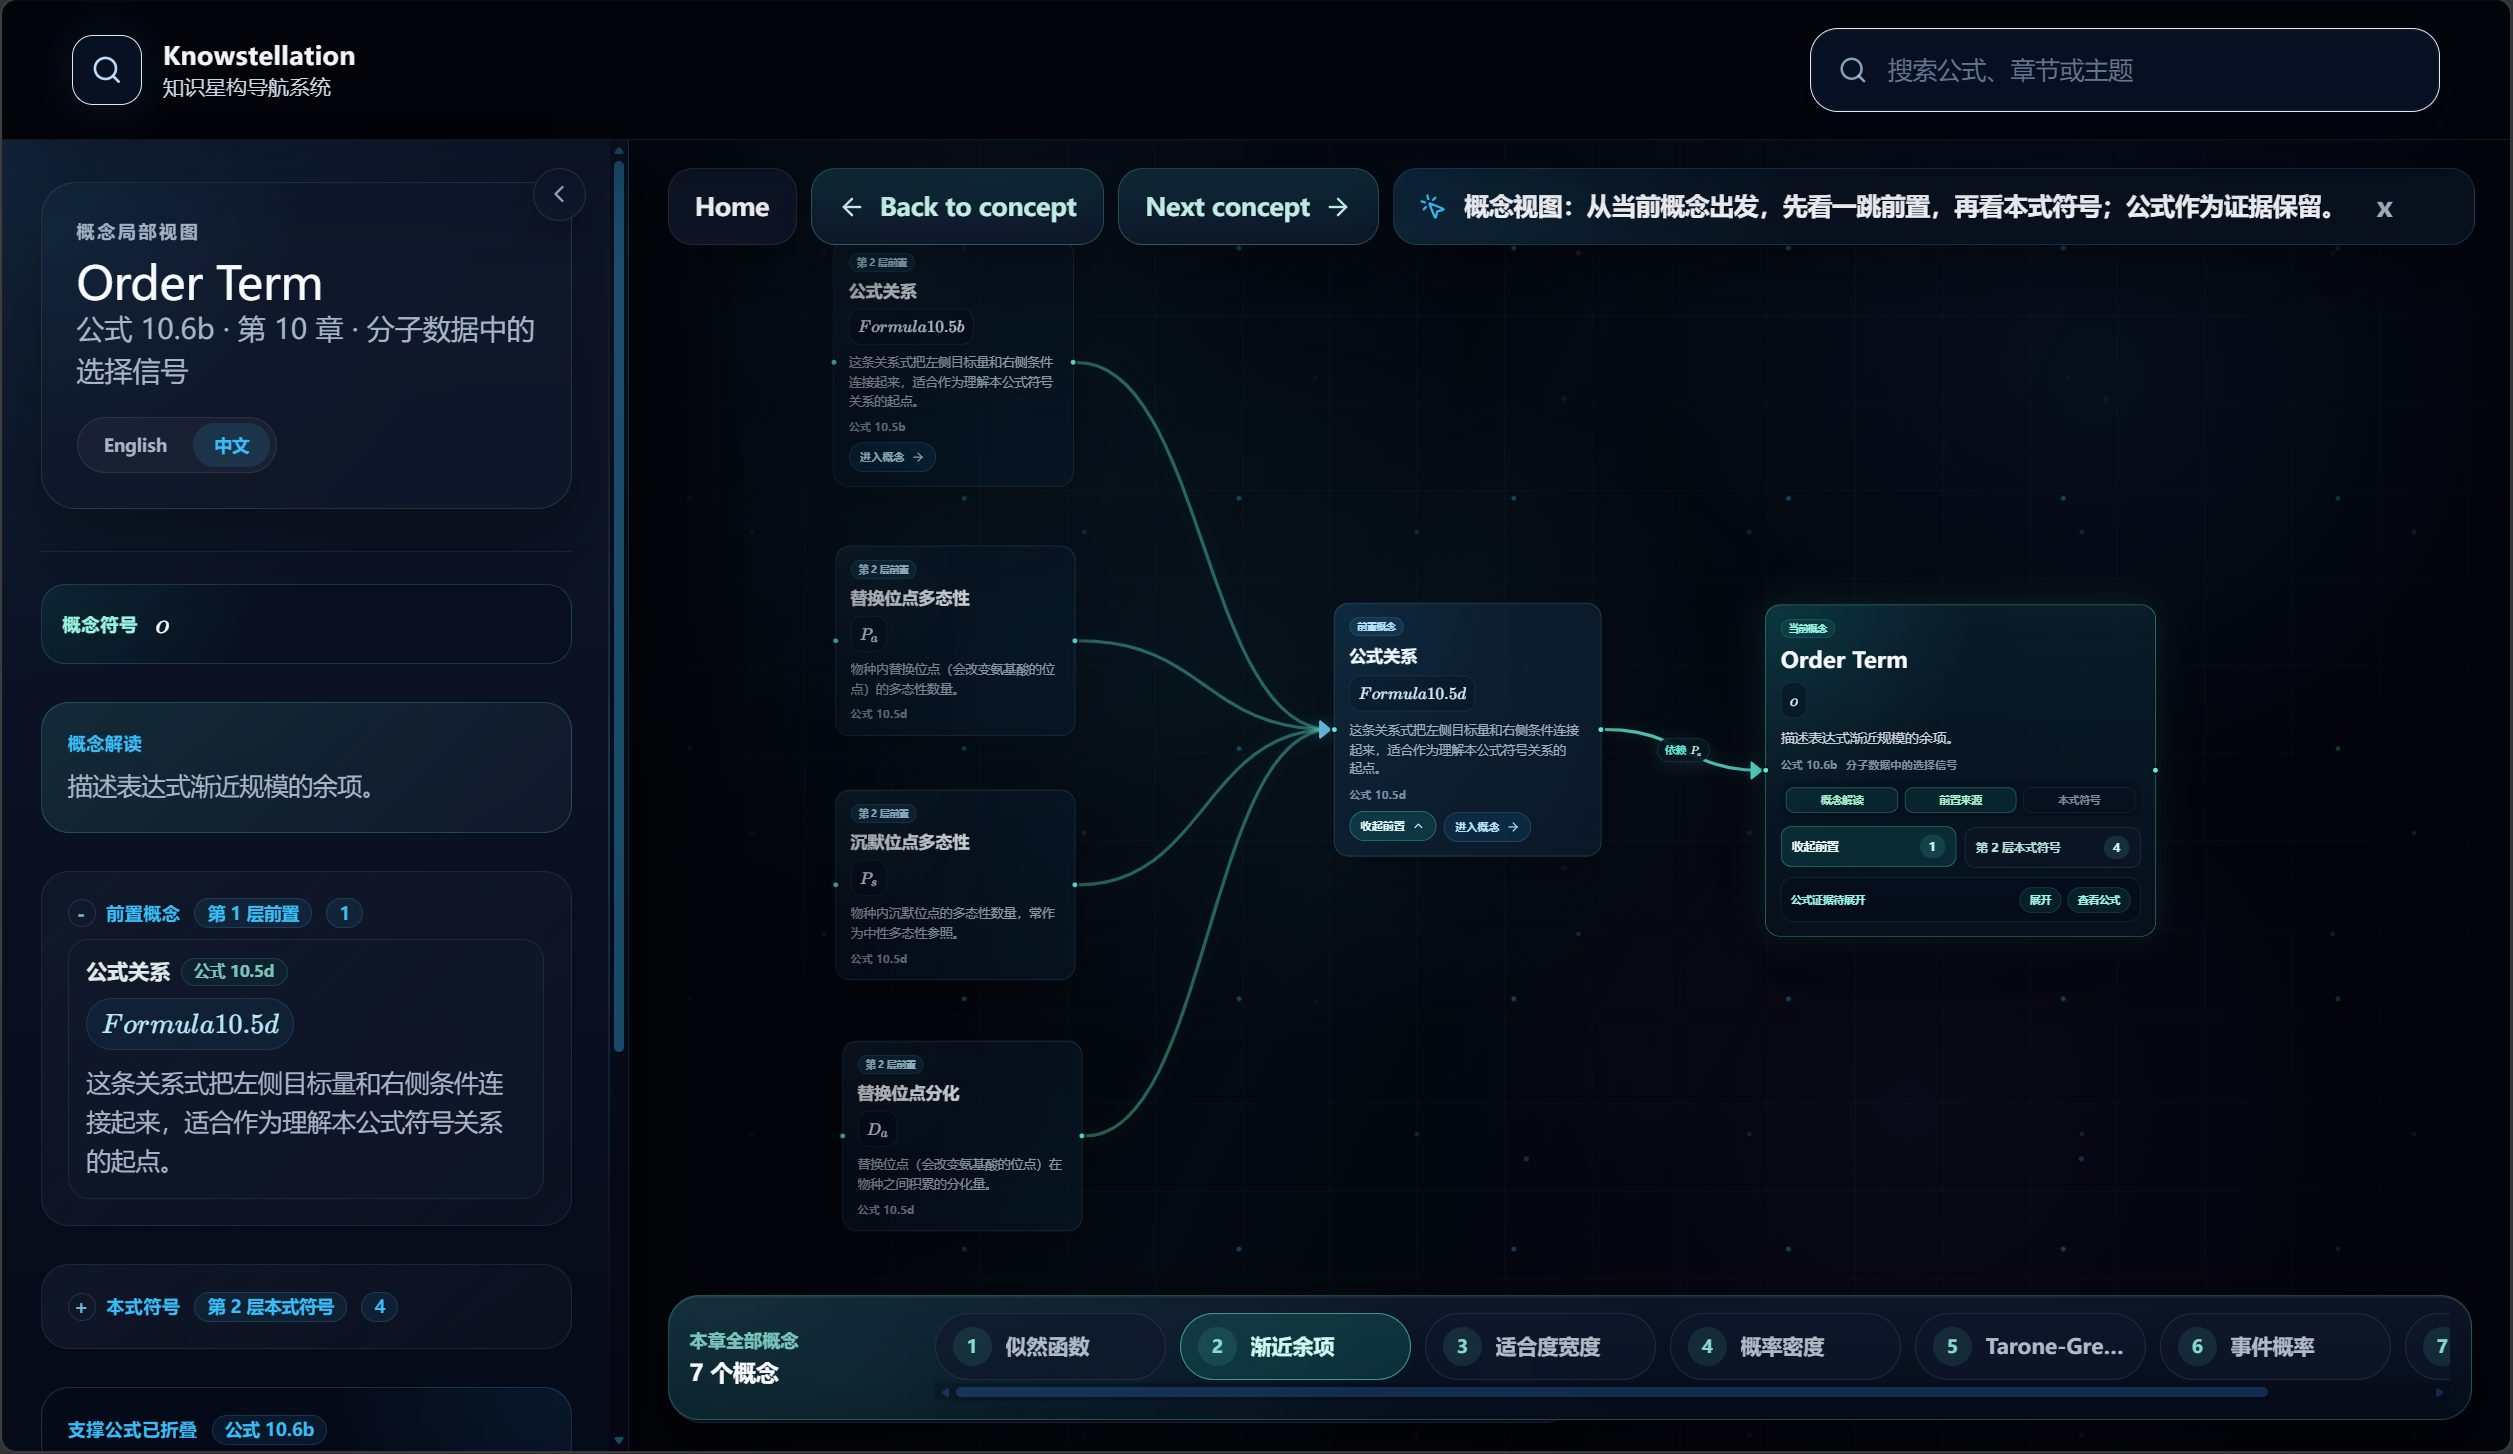
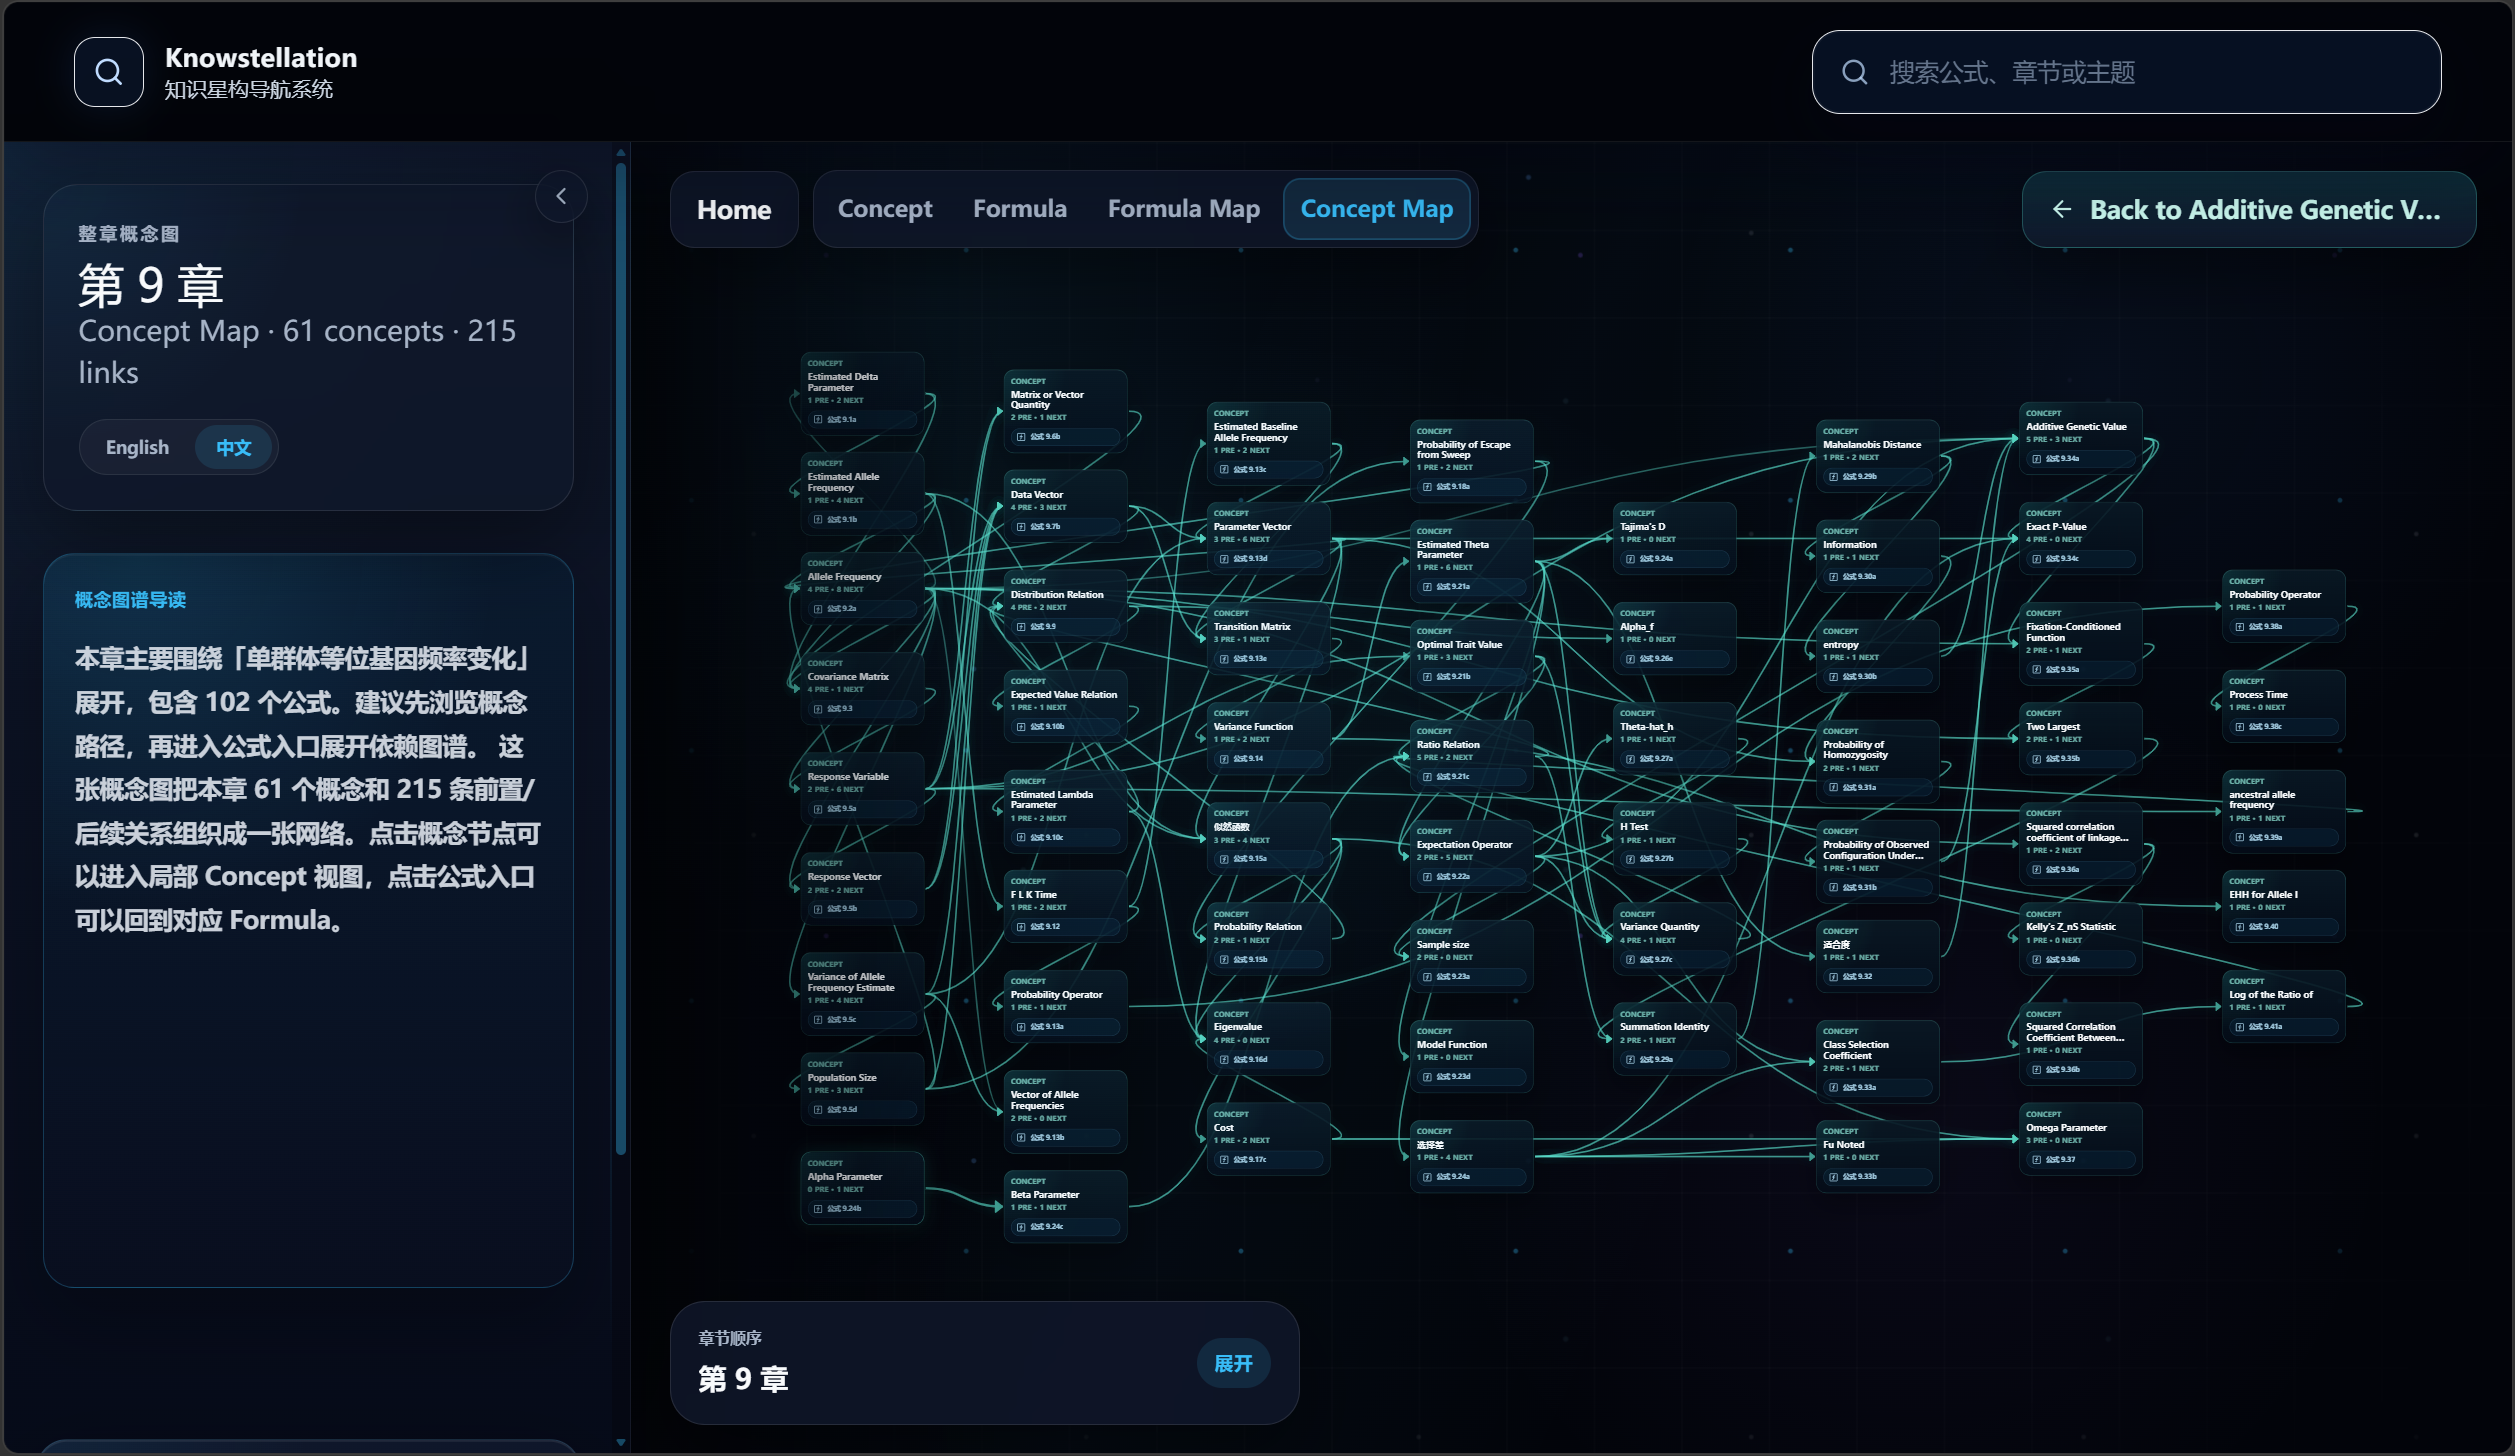
更新README

diff --git a/README.md b/README.md
@@ -48,6 +48,7 @@ The project is intentionally strict about graph quality. Exact references, exact
 - **Formula-first graph reading**: Guided mode combines step-by-step expansion with symbol callouts; Explore opens the chapter-scale graph.
 - **Chapter star map**: each chapter opens as a navigable constellation of formulas and recommended entry points.
 - **Inline symbol annotations**: hover, focus, or tap symbols and compound groups inside a rendered formula to see compact semantic labels. Runtime LaTeX scanning fills gaps when the offline symbol index misses local variables.
+- **Concept and formula maps**: chapter-scale Concept Map and Formula Map views put vocabulary structure and formula prerequisites side by side.
 - **Layered concept graph**: Concept mode starts from the concept defined by the current formula, opens prerequisite context in controlled layers, keeps formula evidence folded by default, and lets learners drag concept cards apart when arranging a dense local view.
 - **Storyline learning paths**: curated narrative routes connect formulas that share a mathematical idea.
 - **Conservative dependency builder**: keeps operator pollution, family-only matches, and fallback definitions out of the accepted graph.
@@ -71,29 +72,32 @@ Each chapter opens as its own star map. Formula nodes keep the dependency struct
   <img src="public/assets/readme/chapter.png" alt="Chapter star map with concept and formula learning entry points" width="100%">
 </p>
 
-### Concept graph reading
-
-Concept mode answers the question "what is this source passage defining?" before asking the learner to chase every dependency. It starts from the current concept, reveals one prerequisite layer by default, keeps formula evidence folded until it is requested, and keeps the local concept view focused on learning relationships instead of symbol inventory. Learners can move to the next concept, step back to the previous concept, or jump across all concepts in the current chapter from the bottom concept navigator.
-
-<p align="center">
-  <img src="public/assets/readme/concept.png" alt="Knowstellation concept graph with chapter concept navigation" width="100%">
-</p>
-
 ### Guided formula reading
 
-Guided mode keeps the learner inside a single formula card first. Hover or tap highlighted terms to see compact semantic notes, then unfold prerequisites or successors when the formula is ready to connect. The left panel keeps the full-formula reading concise: one quick takeaway plus the formula's role in the chapter.
+Guided mode keeps the learner inside a single formula card first. Hover or tap highlighted terms to see compact semantic notes, then unfold prerequisites or successors when the formula is ready to connect. The left panel keeps the full-formula reading concise: one quick takeaway plus the formula's role in the chapter, while the canvas shows the immediate dependency neighborhood.
 
 <p align="center">
   <img src="public/assets/readme/guided.png" alt="Guided formula reading" width="100%">
 </p>
 
-### Formula dependency map
-
-Explore mode opens the chapter-scale dependency map. It is designed for orientation rather than close reading: drag across the chapter, zoom through formula clusters, and use the minimap to keep the current focus visible while scanning the larger structure.
-
 <p align="center">
-  <img src="public/assets/readme/minimap.png" alt="Knowstellation chapter dependency map with minimap and highlighted formula cluster" width="100%">
+  <img src="public/assets/readme/formula-focus.png" alt="Formula dependency focus view" width="100%">
 </p>
+
+### Concept Map and Formula Map
+
+Concept Map and Formula Map are the chapter-scale navigation pair. Concept Map organizes the vocabulary of a chapter into prerequisite and follow-up relationships, so learners can scan the conceptual terrain before entering a specific formula. Formula Map exposes the formula dependency structure directly, making it easier to see which results prepare, branch into, or depend on a target equation.
+
+<table>
+  <tr>
+    <th>Concept Map</th>
+    <th>Formula Map</th>
+  </tr>
+  <tr>
+    <td><img src="public/assets/readme/concept.png" alt="Chapter concept map" width="100%"></td>
+    <td><img src="public/assets/readme/minimap.png" alt="Chapter formula map" width="100%"></td>
+  </tr>
+</table>
 
 ### Storyline paths
 
@@ -286,10 +290,9 @@ For frontend checks, manually verify:
 
 ## Documentation
 
-- [Concept graph advisor progress report](docs/advisor-progress-report-concept-graph.md)
-- [Formula prerequisite graph design](docs/formula_prerequisite_graph_design.md)
-- [Product release acceptance checklist](docs/product-release-acceptance.md)
-- [V1 design architecture](docs/v1设计架构.md)
+- [Concept graph advisor progress report](https://github.com/yizhibanmashou/Knowstellation/blob/main/docs/advisor-progress-report-concept-graph.md)
+- [Formula prerequisite graph design](https://github.com/yizhibanmashou/Knowstellation/blob/main/docs/formula_prerequisite_graph_design.md)
+- [Product release acceptance checklist](https://github.com/yizhibanmashou/Knowstellation/blob/main/docs/product-release-acceptance.md)
 
 ## Roadmap
 
